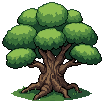
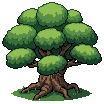
Nine clumps on the tree for nine fruit
The painted tree had eight clumps of leaves; a copy of the bottom-left one now
sits bottom-centre, in front of the trunk, and each fruit hangs on its own.

Changed region(s): [[0.3462, 0.5192, 0.6635, 0.75]]

diff --git a/src/js/tree.js b/src/js/tree.js
@@ -31,9 +31,10 @@ const FRUIT = [
   {b:'Faithfulness', col:'#7a4d9a', lock:TEXT.tree.locks.Faithfulness},
   {b:'Self-control', col:'#2e5a8a', lock:TEXT.tree.locks['Self-control']},
 ];
-// Where each fruit hangs on the painted tree (assets/source/tree/tree.png, 104x104), in tree pixels:
-// three tiers of canopy, bottom-up in FRUIT order, so the tree fills in from the ground as missions open.
-const SOCKET = [[30,68],[64,60],[98,66], [32,46],[64,42],[94,44], [40,26],[64,18],[88,28]].map(([x,y])=>[x-12,y-12]);
+// Where each fruit hangs on the painted tree (assets/source/tree/tree.png, 104x104), in tree pixels: one
+// fruit per clump of leaves, three tiers bottom-up in FRUIT order, so the tree fills in as missions open.
+// (The bottom-centre clump is a copy of the bottom-left one, pasted in so there are nine.)
+const SOCKET = [[22,58],[52,65],[86,54], [20,36],[50,38],[82,32], [28,16],[51,13],[74,16]];
 function fruitHTML(f,k){ const g=f.lock?0:(R.tree[f.b]||0), [x,y]=SOCKET[k], sel=R.treeSel&&R.treeSel.b===f.b, due=!f.lock&&g<3&&treeDue()>0;
   const pips = f.lock ? '' : `<span class="pips">${[0,1,2].map(t=>`<i class="${t<g?'on':''}" style="--c:${f.col}"></i>`).join('')}</span>`;
   const ico = f.lock ? `<span class="lockb">${pxgIcon()}</span>` : `<img src="${IMG.icon[f.b]}" alt="">`;
